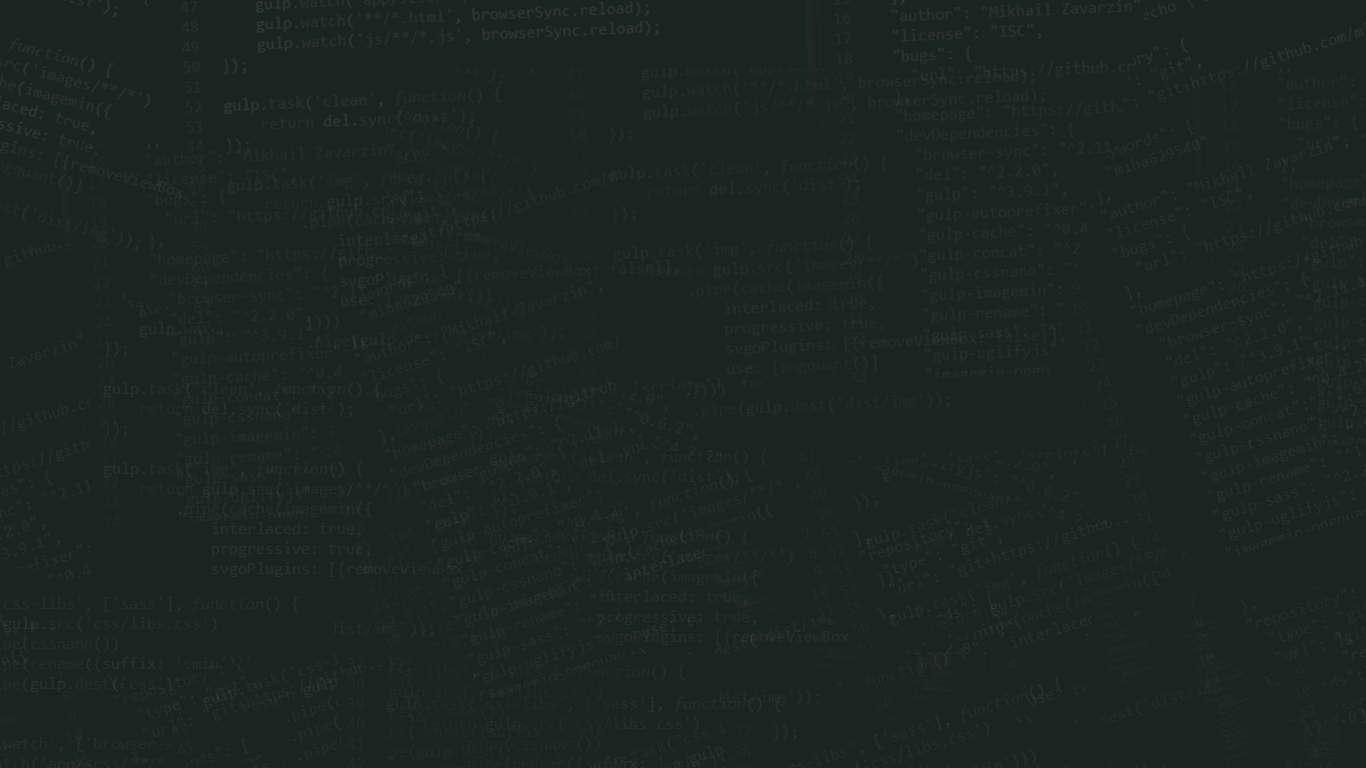
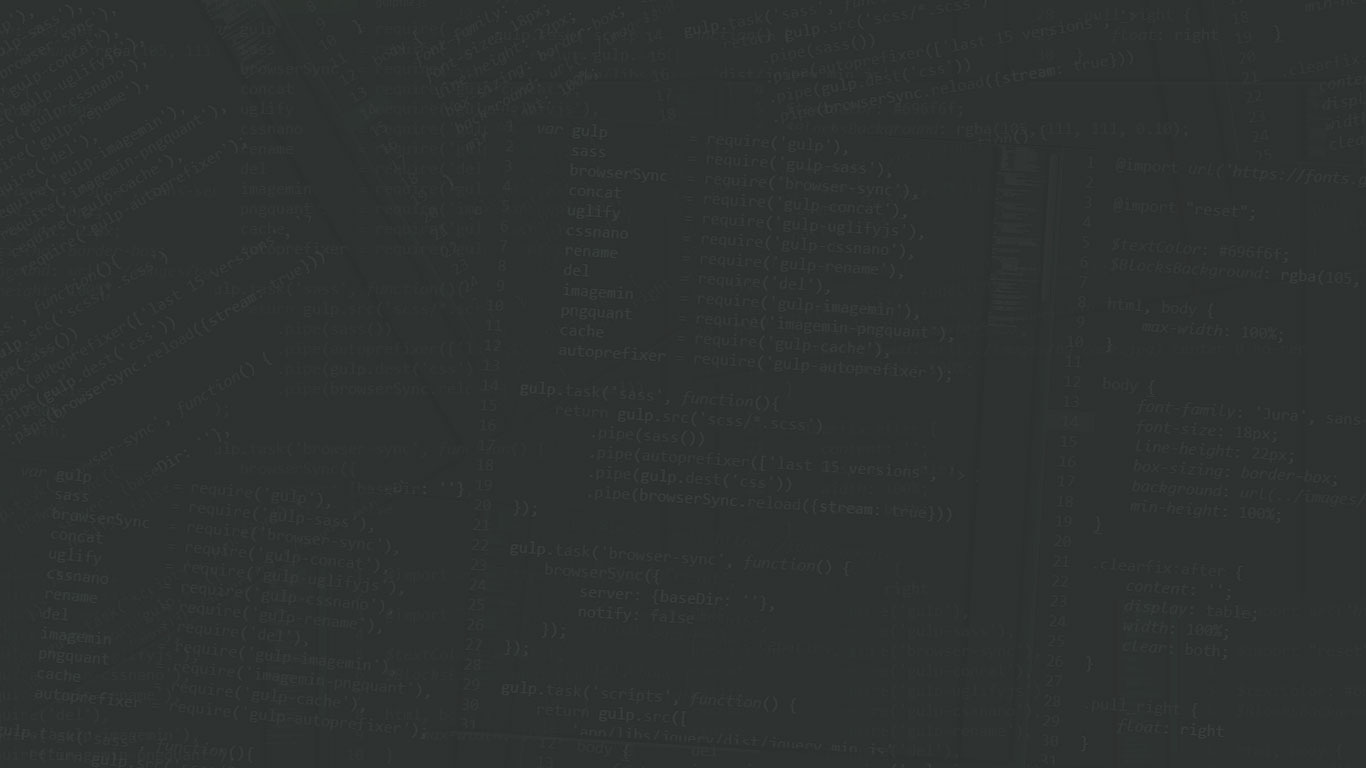
Changed: body background, main photo, text color.

diff --git a/index.html b/index.html
@@ -6,13 +6,15 @@
 	<link rel="stylesheet" type="text/css" href="css/all.css">
 </head>
 <body>
-	<div class="wrapper">
+	
 <!-- header -->
 		<header class="header">
-			<div class="vision pull_left"><img src="images/portrait.jpg" alt="portrait"></div>
-			<h1 class="name">Михаил Заварзин</h1>
-			<h2 class="profession">junior front-end developer</h2>
+			<div class="wrapper">
+				<div class="vision pull_left"><img src="images/portrait.jpg" alt="portrait"></div>
+				<h1 class="name">Михаил Заварзин</h1>
+				<h2 class="profession">junior front-end developer</h2>
+			</div>
 		</header>
-	</div><!-- wrapper end -->
+
 </body>
 </html>

diff --git a/css/all.css b/css/all.css
@@ -74,7 +74,7 @@ body {
 .header {
   background: rgba(105, 111, 111, 0.1); }
   .header .vision {
-    border: 2px solid #696f6f;
+    border: 2px solid #828989;
     margin-right: 20px; }
 
 .vision img {
@@ -85,11 +85,13 @@ body {
   font-size: 30px;
   font-weight: 500;
   line-height: 34px;
-  color: #696f6f;
-  text-align: left; }
+  color: #828989;
+  text-align: left;
+  text-shadow: 1px 1px #131414; }
 
 .profession {
   font-size: 24px;
   line-height: 28px;
   text-align: left;
-  color: #696f6f; }
+  color: #828989;
+  text-shadow: 1px 1px #131414; }

diff --git a/scss/all.scss b/scss/all.scss
@@ -2,8 +2,9 @@
 
 @import "reset";
 
-$textColor: #696f6f; 
+$textColor: #828989; 
 $BlocksBackground: rgba(105, 111, 111, 0.10);
+$textShadow: #131414;
 
 html, body {
 	max-width: 100%;
@@ -59,6 +60,7 @@ body {
 	line-height: 34px;
 	color: $textColor;
 	text-align: left;
+	text-shadow: 1px 1px $textShadow;
 
 }
 
@@ -67,4 +69,5 @@ body {
 	line-height: 28px;
 	text-align: left;
 	color: $textColor;
+	text-shadow: 1px 1px $textShadow;
 }
